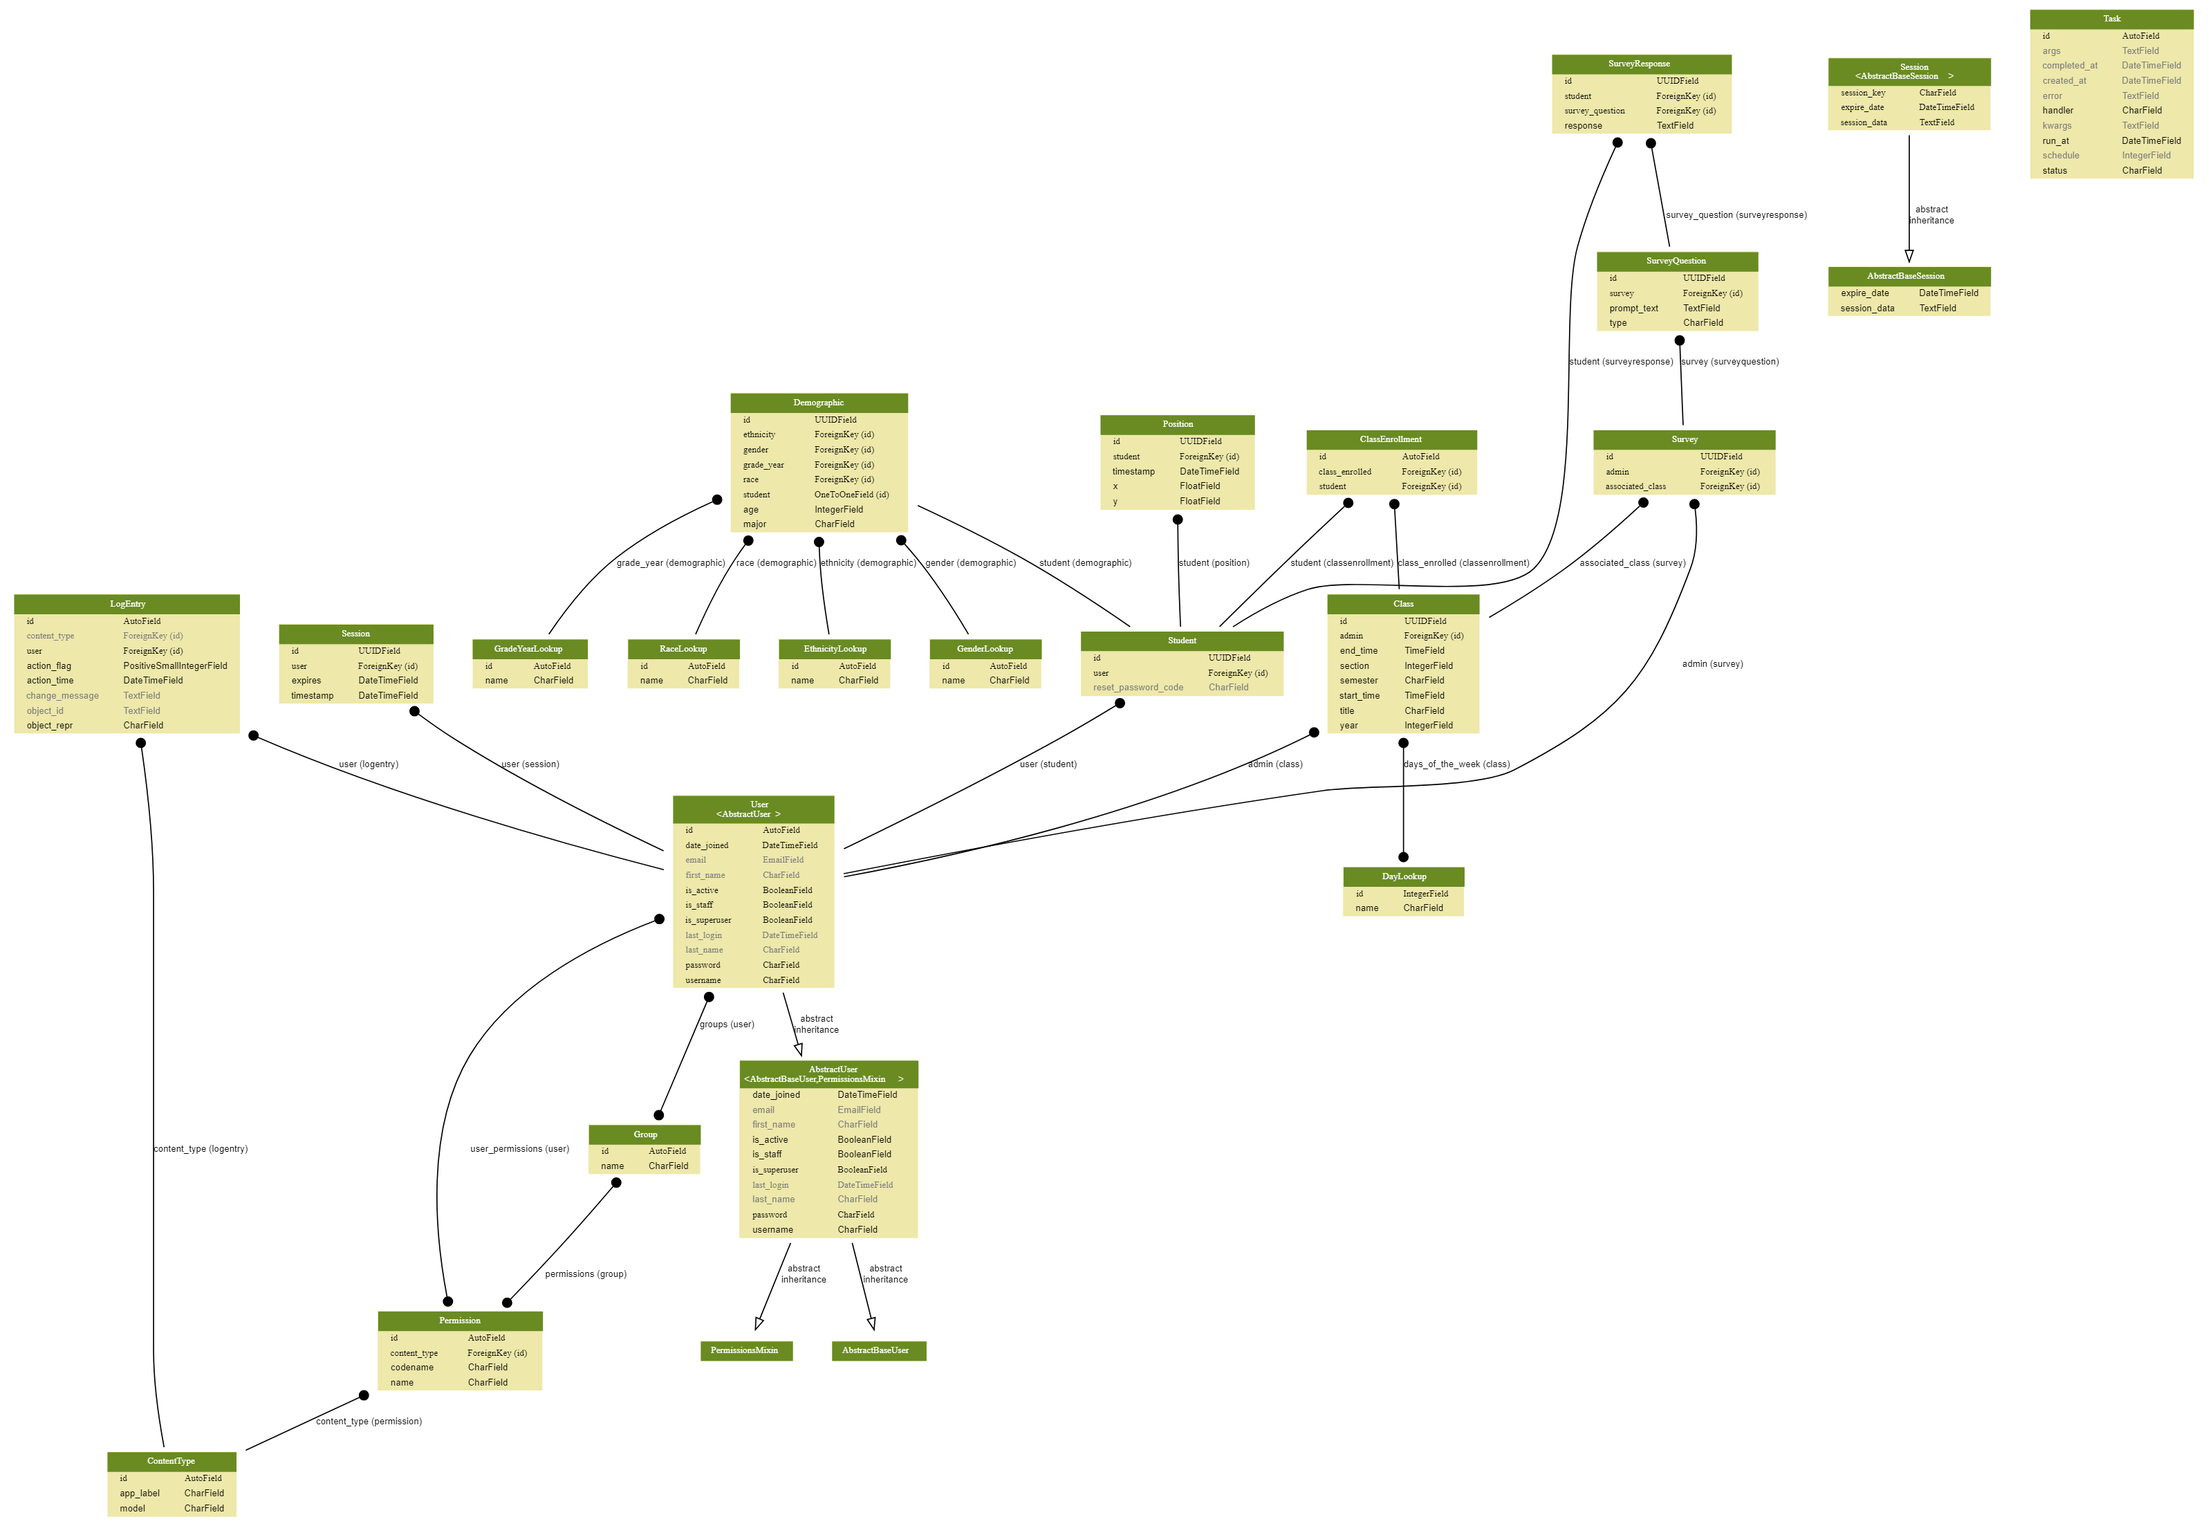
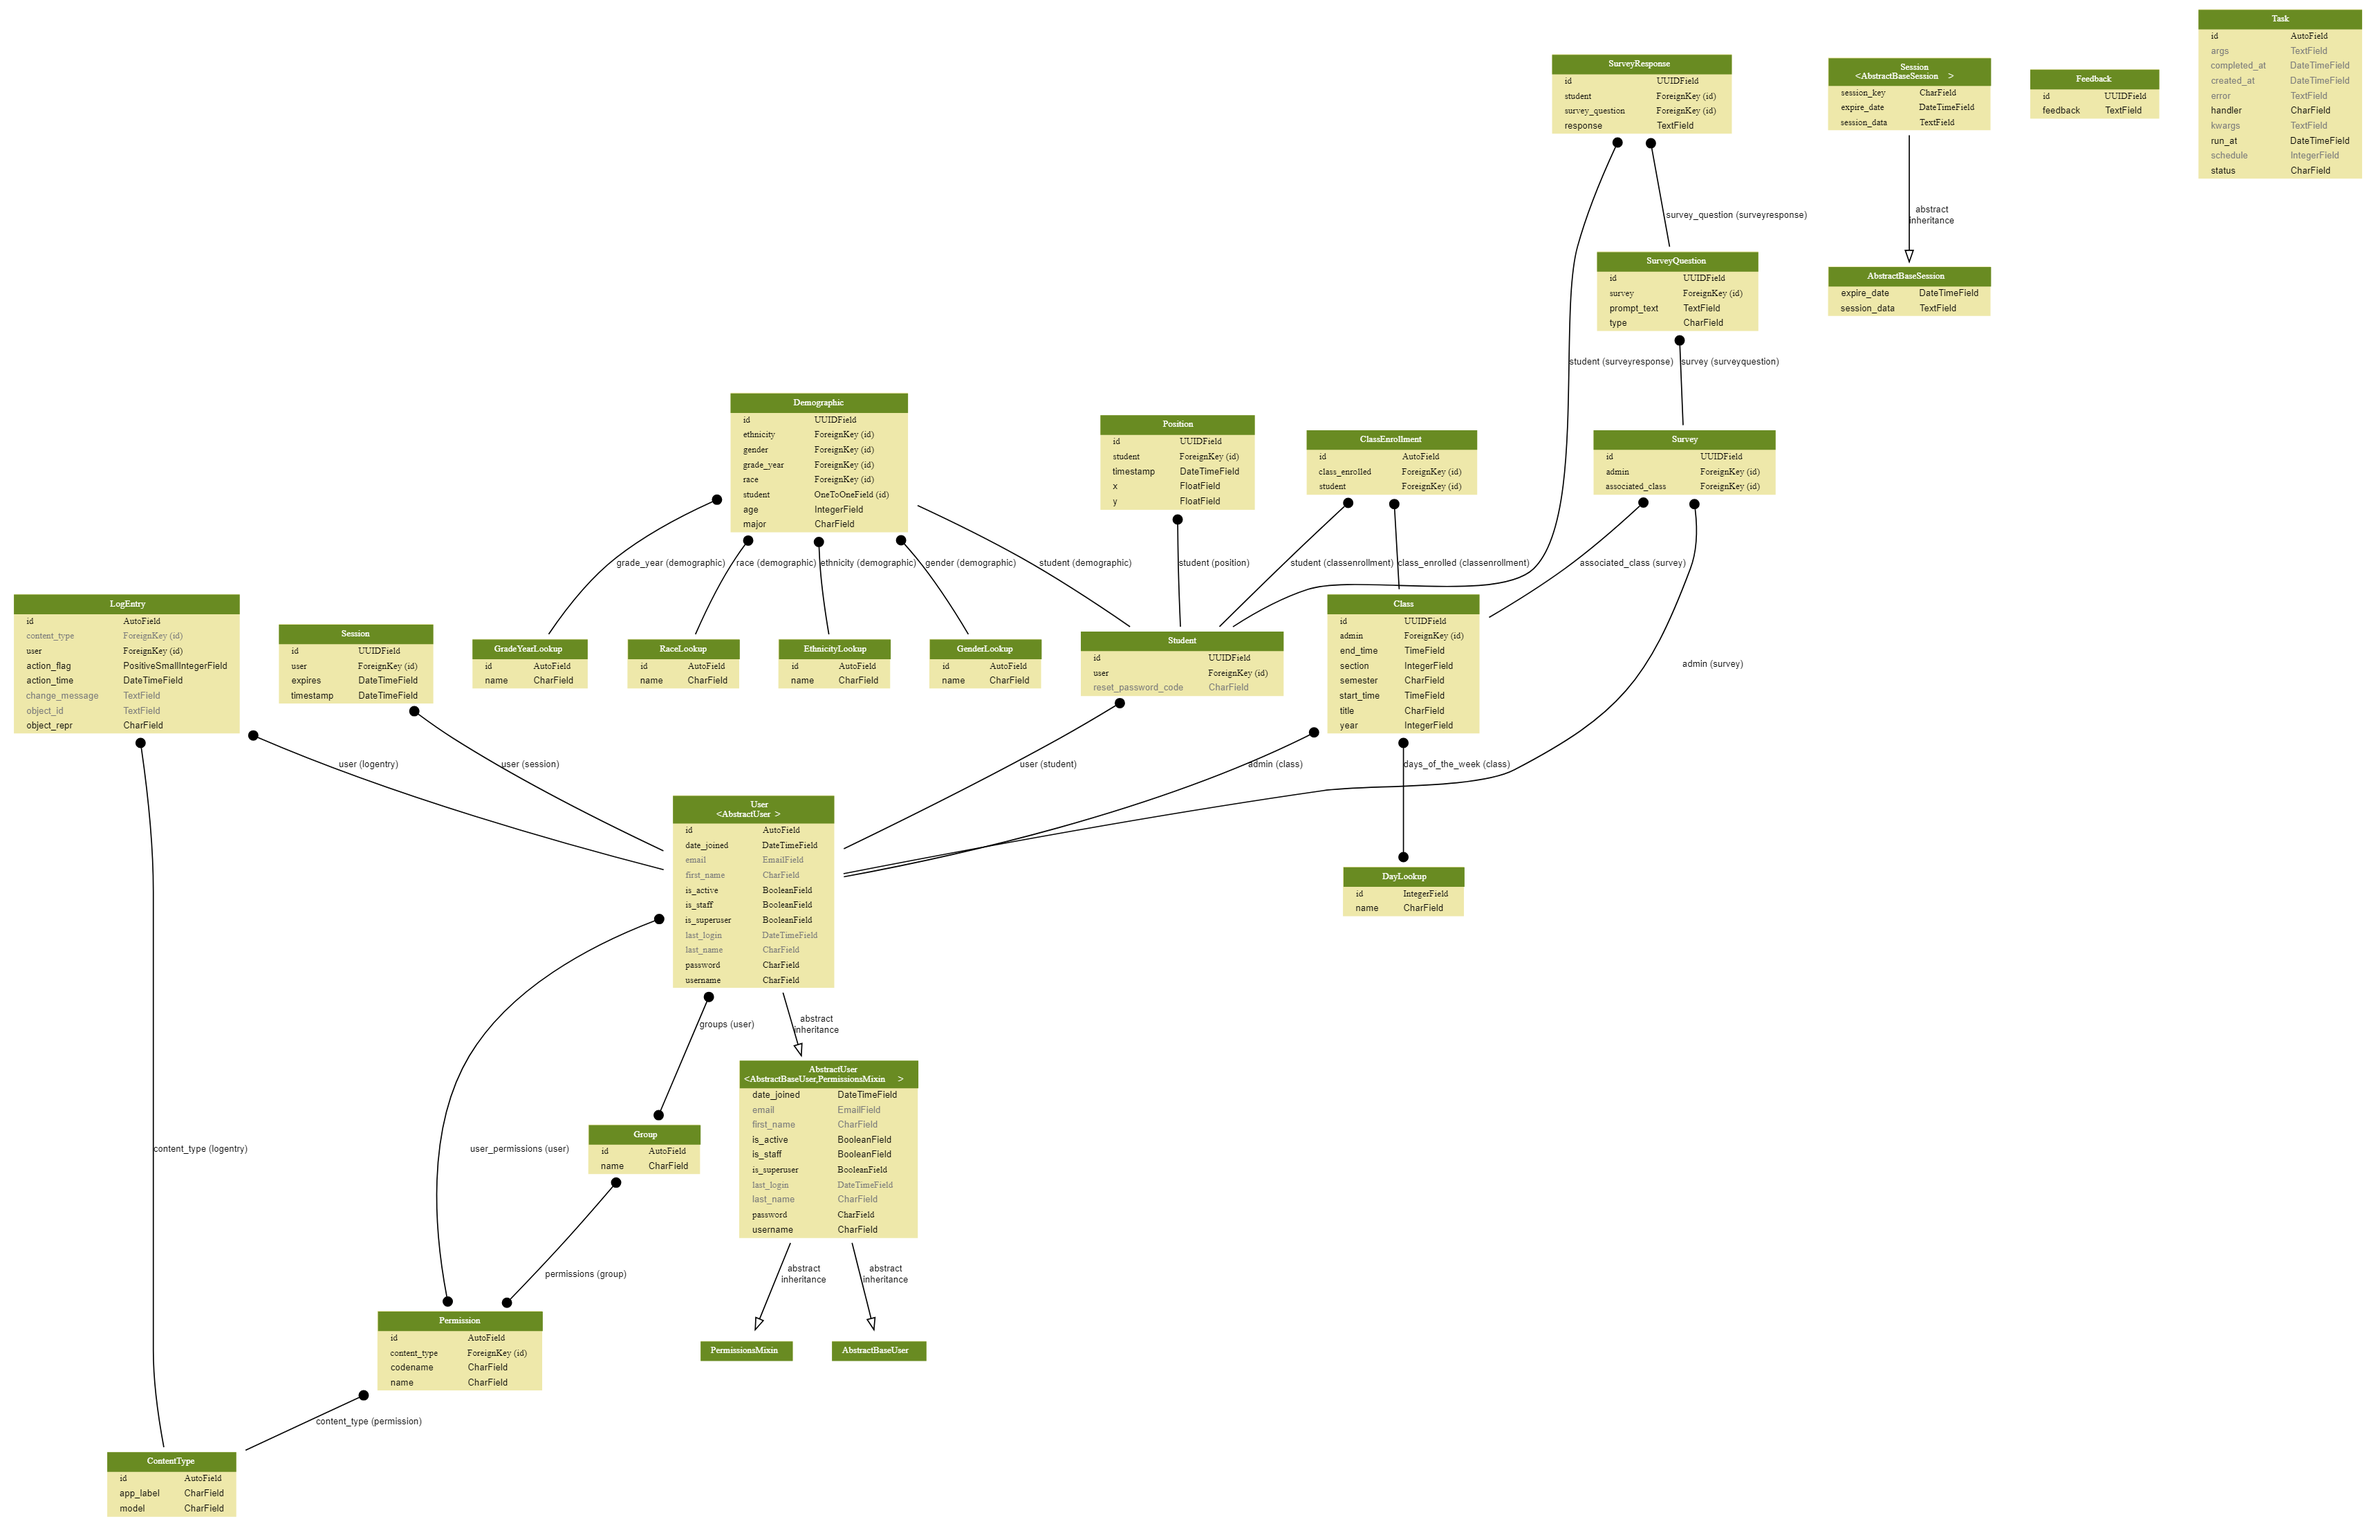
Changed 'Django' requirement from 2.1.5 to 2.1.7 due to a security vulnerability. Added Feedback model. Added migration for Feedback migration. Created new ER Diagram to show Feedback model.

diff --git a/api/migrations/0005_Add Feedback model.py b/api/migrations/0005_Add Feedback model.py
@@ -1,0 +1,73 @@
+# Generated by Django 2.1.7 on 2019-03-26 01:35
+
+import datetime
+from django.db import migrations, models
+from django.utils.timezone import utc
+import uuid
+
+
+class Migration(migrations.Migration):
+
+    dependencies = [
+        ('api', '0004_Change SurveyResponse Question FK'),
+    ]
+
+    operations = [
+        migrations.CreateModel(
+            name='Feedback',
+            fields=[
+                ('id', models.UUIDField(default=uuid.UUID('57697e37-1ea8-43ce-8127-67ddfe5578a0'), editable=False, primary_key=True, serialize=False)),
+                ('feedback', models.TextField()),
+            ],
+        ),
+        migrations.AlterField(
+            model_name='class',
+            name='id',
+            field=models.UUIDField(default=uuid.UUID('d45f4c04-ff02-4f73-bc64-cb5b54bbb2df'), editable=False, primary_key=True, serialize=False),
+        ),
+        migrations.AlterField(
+            model_name='demographic',
+            name='id',
+            field=models.UUIDField(default=uuid.UUID('5b40da0f-f01f-4d30-be8a-928d235250e1'), editable=False, primary_key=True, serialize=False),
+        ),
+        migrations.AlterField(
+            model_name='position',
+            name='id',
+            field=models.UUIDField(default=uuid.UUID('070cc4c7-66dc-431b-be7c-eb6afc9228e3'), editable=False, primary_key=True, serialize=False),
+        ),
+        migrations.AlterField(
+            model_name='position',
+            name='timestamp',
+            field=models.DateTimeField(default=datetime.datetime(2019, 3, 26, 1, 35, 4, 117619, tzinfo=utc)),
+        ),
+        migrations.AlterField(
+            model_name='session',
+            name='expires',
+            field=models.DateTimeField(default=datetime.datetime(2019, 3, 27, 1, 35, 4, 114626, tzinfo=utc)),
+        ),
+        migrations.AlterField(
+            model_name='session',
+            name='id',
+            field=models.UUIDField(default=uuid.UUID('c01c679d-da05-49d1-91a7-d728fceb68f4'), editable=False, primary_key=True, serialize=False),
+        ),
+        migrations.AlterField(
+            model_name='session',
+            name='timestamp',
+            field=models.DateTimeField(default=datetime.datetime(2019, 3, 26, 1, 35, 3, 960057, tzinfo=utc), editable=False),
+        ),
+        migrations.AlterField(
+            model_name='survey',
+            name='id',
+            field=models.UUIDField(default=uuid.UUID('91b01fa1-353a-4c53-b52b-858be8b92215'), editable=False, primary_key=True, serialize=False),
+        ),
+        migrations.AlterField(
+            model_name='surveyquestion',
+            name='id',
+            field=models.UUIDField(default=uuid.UUID('96851816-3fb0-43a6-9a71-800cbd06dda4'), editable=False, primary_key=True, serialize=False),
+        ),
+        migrations.AlterField(
+            model_name='surveyresponse',
+            name='id',
+            field=models.UUIDField(default=uuid.UUID('dce3fd89-4a66-411d-b2c3-b343ed7f58ca'), editable=False, primary_key=True, serialize=False),
+        ),
+    ]

diff --git a/api/models.py b/api/models.py
@@ -203,3 +203,14 @@ class SurveyResponse(models.Model):
 
     def to_dict(self):
         return {'id': str(self.id), 'question': str(self.survey_question.id), 'student': str(self.student.id), 'response': self.response}
+
+
+class Feedback(models.Model):
+    id = models.UUIDField(primary_key=True, default=uuid.uuid4(), editable=False)
+    feedback = models.TextField()
+
+    def __str__(self):
+        return str(self.id)
+
+    def to_dict(self):
+        return {'id': str(self.id), 'feedback': self.feedback}
